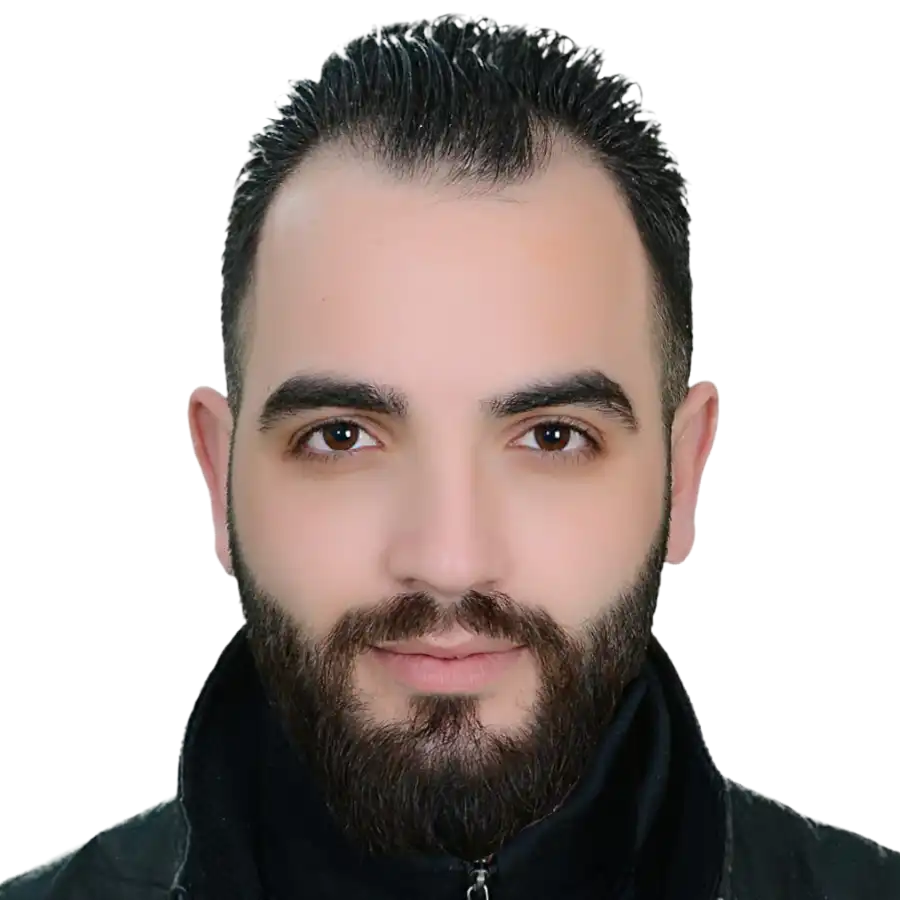
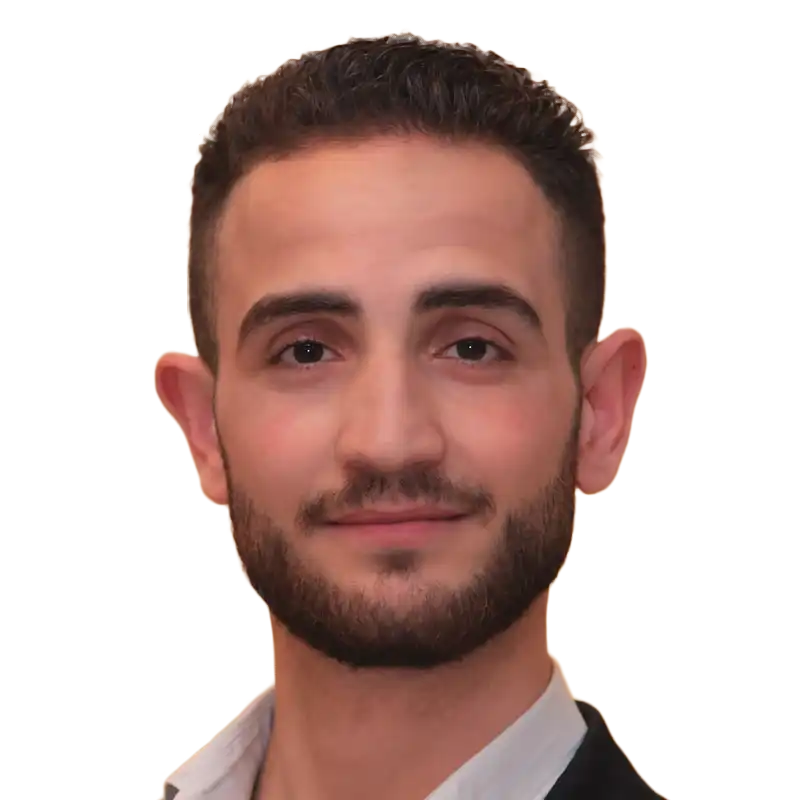
cange images and theme colors

diff --git a/src/components/HeroSection/HeroSection.jsx b/src/components/HeroSection/HeroSection.jsx
@@ -32,7 +32,7 @@ const HeroSection = () => {
           </a>
         </div>
       </div>
-      <div className="mt-[80px] flex items-start justify-center md:w-3/12 bg-transparent md:bg-two relative md:h-auto z-1 ">
+      <div className="mt-20 md:mt-0 flex items-start justify-center md:w-3/12 bg-transparent md:bg-two relative md:h-auto z-1 ">
         <LazyLoadImage
           loading="lazy"
           src="/images/hero.webp"
@@ -43,9 +43,9 @@ const HeroSection = () => {
           loading="lazy"
           src="/images/profile.webp"
           alt="hero1"
-          className="min-h-[300px] animate-bounce-2 scale-105 md:absolute left-0  bottom-[50px] max-w-[320px] w-10/12 md:w-auto rounded-full"
+          className="animate-profile  min-h-[300px] animate-bounce-2 scale-105 md:absolute left-0  bottom-[12vh] max-w-[320px] w-10/12 md:w-auto rounded-full"
           style={{
-            boxShadow: "0px 12px 12px 5px rgba(0,0,0,.8)",
+            boxShadow: "0px 15px 25px 8px rgba(0,0,0,.5)",
           }}
         />
       </div>

diff --git a/tailwind.config.js b/tailwind.config.js
@@ -9,10 +9,7 @@ module.exports = {
         },
         extend: {
             colors: {
-                // one: "#55565b",
-                // one: "#44465b",
-                one: "#24262b",
-                // two: "#f48915",
+                one: "#2A2C2F",
                 two: "#E06000",
                 three: "#d55A54",
                 four: "#e19f51",

diff --git a/src/components/ProjectPage/index.jsx b/src/components/ProjectPage/index.jsx
@@ -11,7 +11,7 @@ const ProjectPage = () => {
   const projectToRender = projectsData[projectName]
 
   return (
-    <div className="bg-[#121212AA]">
+    <div>
       <ProjectContentRenderer {...projectToRender} />
       <div className="pb-[120px]">
         <WorkSection cardToHide={projectName} title="MORE WORK" />
